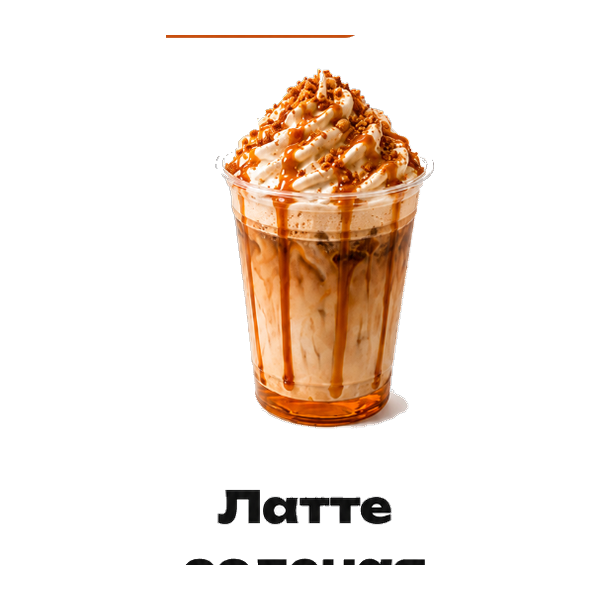
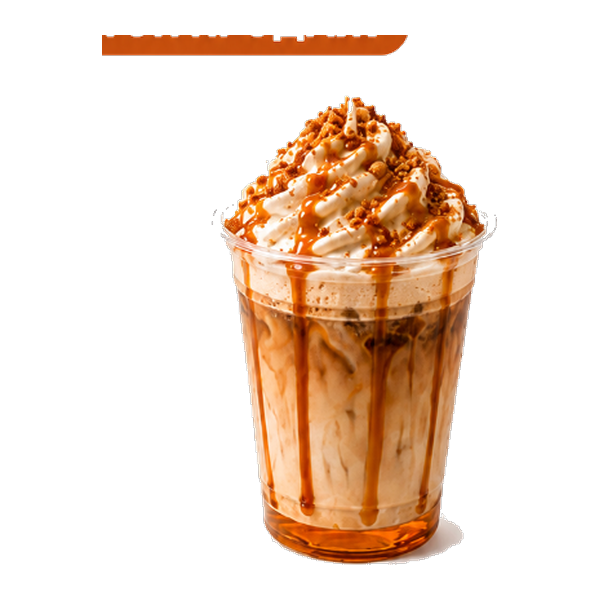
feat: replace salted caramel latte card photo with high-res transparent asset

Changed region(s): [[0.15, 0.06, 0.84, 0.96]]

diff --git a/src/data/menu.ts b/src/data/menu.ts
@@ -344,8 +344,7 @@ export const MENU_ITEMS: MenuItemType[] = [
   },
   {
     id: 'salted-caramel-latte',
-    name: 'Латте',
-    description: 'соленая карамель',
+    name: 'Латте соленая карамель',
     category: 'autumn',
     badge: 'ТОП ПРОДАЖ',
     weight: '300 / 400 мл',
